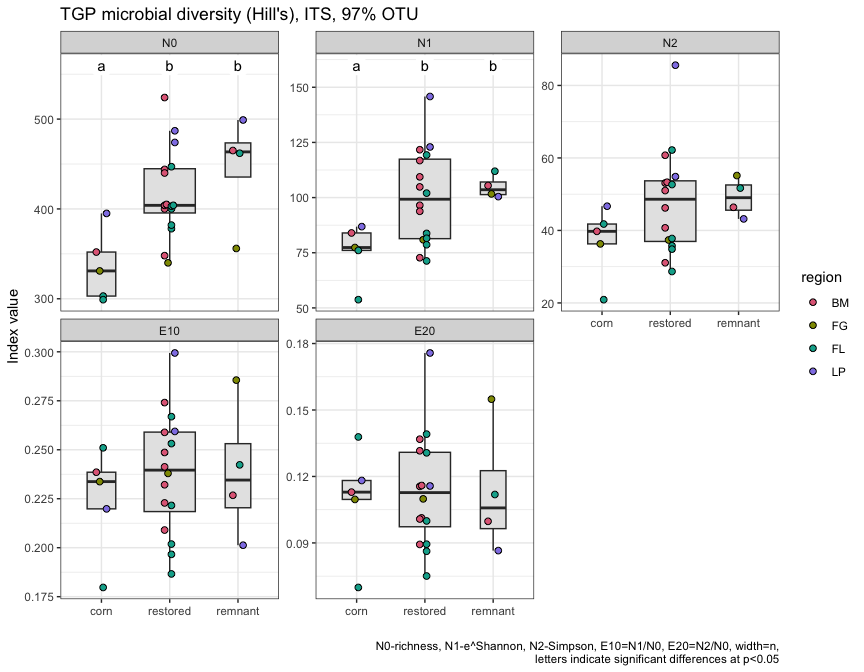
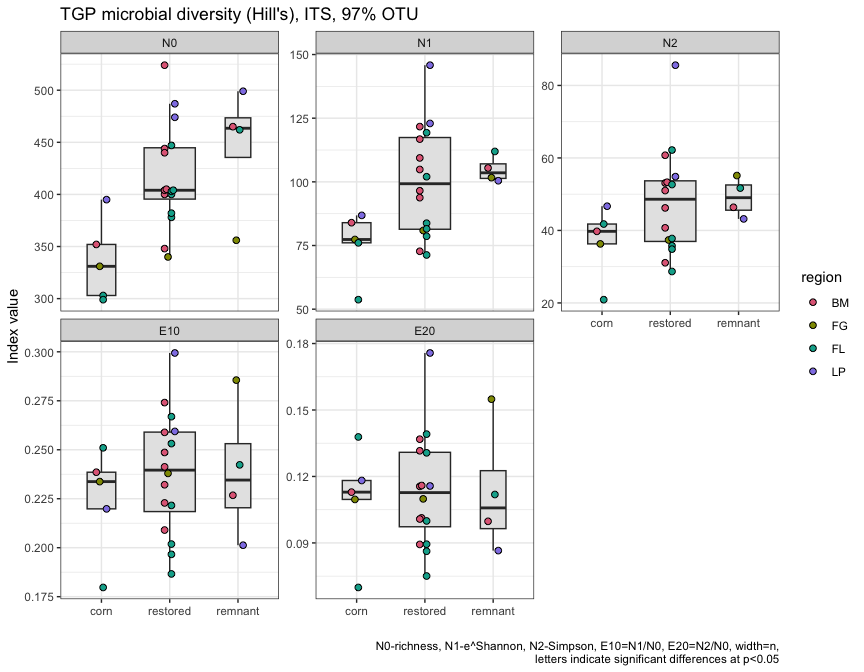
WIP: finished microbial diversity

diff --git a/microbial_diversity.md b/microbial_diversity.md
@@ -2,7 +2,7 @@ Microbial data: overview of data, diversity statistics
 ================
 Beau Larkin
 
-Last updated: 24 February, 2023
+Last updated: 27 February, 2023
 
 - <a href="#description" id="toc-description">Description</a>
 - <a href="#packages-and-libraries"
@@ -12,42 +12,29 @@ Last updated: 24 February, 2023
     id="toc-sites-species-tables">Sites-species tables</a>
   - <a href="#site-metadata-and-design"
     id="toc-site-metadata-and-design">Site metadata and design</a>
+- <a href="#functions" id="toc-functions">Functions</a>
+  - <a href="#calculate-hills-series-on-a-samples-species-matrix"
+    id="toc-calculate-hills-series-on-a-samples-species-matrix">Calculate
+    Hill’s series on a samples-species matrix</a>
+  - <a href="#test-diversity-measures-across-site-types-with-mixed-model"
+    id="toc-test-diversity-measures-across-site-types-with-mixed-model">Test
+    diversity measures across site types with mixed model</a>
+  - <a href="#change-in-diversity-over-time"
+    id="toc-change-in-diversity-over-time">Change in diversity over time</a>
 - <a href="#analysis-and-results" id="toc-analysis-and-results">Analysis
   and Results</a>
-  - <a href="#functions-and-variables"
-    id="toc-functions-and-variables">Functions and variables</a>
-    - <a href="#calculate-hills-series-on-a-samples-species-matrix"
-      id="toc-calculate-hills-series-on-a-samples-species-matrix">Calculate
-      Hill’s series on a samples-species matrix</a>
-    - <a href="#test-diversity-measures-across-site-types-with-mixed-model"
-      id="toc-test-diversity-measures-across-site-types-with-mixed-model">Test
-      diversity measures across site types with mixed model</a>
-    - <a href="#change-in-diversity-over-time"
-      id="toc-change-in-diversity-over-time">Change in diversity over time</a>
-    - <a href="#calculate-diversity-of-all-samples-species-matrices"
-      id="toc-calculate-diversity-of-all-samples-species-matrices">Calculate
-      diversity of all samples-species matrices</a>
-  - <a href="#fungi-its-gene-in-otu-clusters"
-    id="toc-fungi-its-gene-in-otu-clusters">Fungi (ITS gene) in OTU
-    clusters</a>
+  - <a href="#diversity-calculations"
+    id="toc-diversity-calculations">Diversity calculations</a>
+  - <a href="#fungi-its-gene" id="toc-fungi-its-gene">Fungi (ITS gene)</a>
     - <a href="#diversity-across-field-types"
       id="toc-diversity-across-field-types">Diversity across field types</a>
     - <a href="#key-observations" id="toc-key-observations">Key
       observations:</a>
-    - <a href="#diversity-over-time-its-based-otus"
-      id="toc-diversity-over-time-its-based-otus">Diversity over time
-      (ITS-based OTUs)</a>
-    - <a href="#diversity-over-time-at-blue-mounds-its-based-otus"
-      id="toc-diversity-over-time-at-blue-mounds-its-based-otus">Diversity
-      over time at Blue Mounds (ITS-based OTUs)</a>
-  - <a href="#amf-18s-gene-97-similar-otus"
-    id="toc-amf-18s-gene-97-similar-otus">AMF (18S gene, 97% similar
-    OTUs)</a>
+    - <a href="#diversity-over-time" id="toc-diversity-over-time">Diversity
+      over time</a>
+  - <a href="#amf-18s-gene" id="toc-amf-18s-gene">AMF (18S gene)</a>
     - <a href="#key-observations-1" id="toc-key-observations-1">Key
       observations:</a>
-    - <a href="#diversity-over-time-18s-based-otus"
-      id="toc-diversity-over-time-18s-based-otus">Diversity over time
-      (18S-based OTUs)</a>
     - <a href="#diversity-over-time-at-blue-mounds-amf"
       id="toc-diversity-over-time-at-blue-mounds-amf">Diversity over time at
       Blue Mounds (AMF)</a>
@@ -116,41 +103,13 @@ spe <- list(
 
 ## Site metadata and design
 
-Set remnants to 50 years old as a placeholder. This number will not be
-used in a quantitative sense, for example in models. Oldfields are
-filtered out because they could not be replicated in regions.
-
 ``` r
-rem_age <- 50
-sites   <- read_csv(paste0(getwd(), "/clean_data/sites.csv"), show_col_types = FALSE) %>% 
-    mutate(field_type = factor(field_type, ordered = TRUE, levels = c("corn", "restored", "remnant")),
-           yr_since = replace(yr_since, which(field_type == "remnant"), rem_age)) %>% 
+sites <- read_csv(paste0(getwd(), "/clean_data/sites.csv"), show_col_types = FALSE) %>% 
+    mutate(field_type = factor(field_type, ordered = TRUE, levels = c("corn", "restored", "remnant"))) %>% 
     select(-lat, -long, -yr_restore, -yr_rank)
 ```
 
-# Analysis and Results
-
-Microbial diversity is considered for each of four datasets: OTU or SV
-clustering for 18S or ITS gene sequencing. For each set, Hill’s numbers
-are produced ([Hill 1973](http://doi.wiley.com/10.2307/1934352),
-[Borcard and Legendere 2018,
-p. 373](http://link.springer.com/10.1007/978-3-319-71404-2)) and
-plotted, with means differences tested using mixed-effects linear models
-in `lmer` ([Bates et al. 2015](https://doi.org/10.18637/jss.v067.i01)).
-Correlations are then produced to visualize change in diversity trends
-over time, with similar mixed-effects tests performed.
-
-Hill’s numbers, brief description:
-
-- $N_{0}$ = species richness
-- $N_{1}$ = Shannon’s diversity ($e^H$; excludes rarest species,
-  considers the number of “functional” species)
-- $N_{2}$ = Simpson’s diversity ($1 / \lambda$; number of “codominant”
-  species)
-- $E_{10}$ = Shannon’s evenness (Hill’s ratio $N_{1} / N_{0}$)
-- $E_{20}$ = Simpson’s evenness (Hill’s ratio $N_{2} / N_{0}$)
-
-## Functions and variables
+# Functions
 
 The following functions are used to streamline code and reduce errors:
 
@@ -245,13 +204,39 @@ test_age <- function(data, caption=NULL) {
 }
 ```
 
-### Calculate diversity of all samples-species matrices
+# Analysis and Results
+
+Microbial diversity is considered for each of four datasets: OTU or SV
+clustering for 18S or ITS gene sequencing. For each set, Hill’s numbers
+are produced ([Hill 1973](http://doi.wiley.com/10.2307/1934352),
+[Borcard and Legendere 2018,
+p. 373](http://link.springer.com/10.1007/978-3-319-71404-2)) and
+plotted, with means differences tested using mixed-effects linear models
+in `lmer` ([Bates et al. 2015](https://doi.org/10.18637/jss.v067.i01)).
+Correlations are then produced to visualize change in diversity trends
+over time, with similar mixed-effects tests performed.
+
+The statistical tests are not valid due to pseudoreplication, but are
+presented here as an attempt to at least explore some differences and
+think more later about how we could present them in a valid way.
+
+Hill’s numbers, brief description:
+
+- $N_{0}$ = species richness
+- $N_{1}$ = Shannon’s diversity ($e^H$; excludes rarest species,
+  considers the number of “functional” species)
+- $N_{2}$ = Simpson’s diversity ($1 / \lambda$; number of “codominant”
+  species)
+- $E_{10}$ = Shannon’s evenness (Hill’s ratio $N_{1} / N_{0}$)
+- $E_{20}$ = Simpson’s evenness (Hill’s ratio $N_{2} / N_{0}$)
+
+### Diversity calculations
 
 ``` r
-div <- lapply(spe, calc_diversity)
+div <- Map(calc_diversity, spe)
 ```
 
-## Fungi (ITS gene) in OTU clusters
+## Fungi (ITS gene)
 
 ### Diversity across field types
 
@@ -576,6 +561,8 @@ test_diversity(div$its_rfy)
     ##     corn restored  remnant 
     ##      "a"      "a"      "a"
 
+#### Result: ITS diversity
+
 - $N_{0}$: field type is significant by likelihood ratio test at
   p\<0.001 with region as a random effect. Species richness in corn
   fields was less than restored or remnants, which didn’t differ at
@@ -606,7 +593,7 @@ ggplot(div$its_rfy, aes(x = field_type, y = value)) +
     facet_wrap(vars(hill_index), scales = "free_y") +
     geom_boxplot(varwidth = TRUE, fill = "gray90", outlier.shape = NA) +
     geom_beeswarm(aes(fill = region), shape = 21, size = 2, dodge.width = 0.2) +
-    geom_label(data = labs_its, aes(x = xpos, y = ypos, label = lab), label.size = NA) +
+    # geom_label(data = labs_its, aes(x = xpos, y = ypos, label = lab), label.size = NA) +
     labs(x = "", y = "Index value", title = "TGP microbial diversity (Hill's), ITS, 97% OTU",
          caption = "N0-richness, N1-e^Shannon, N2-Simpson, E10=N1/N0, E20=N2/N0, width=n,\nletters indicate significant differences at p<0.05") +
     scale_fill_discrete_qualitative(palette = "Dark3") +
@@ -643,33 +630,12 @@ ggplot(
   evenness.
 - Interactions are less an issue with $N_{0}$ and $N_{1}$
 
-### Diversity over time (ITS-based OTUs)
+### Diversity over time
 
-Next, trends in diversity are correlated with years since restoration,
-with 0 used for corn fields and 50 used for remnants. Statistical
-testing of this relationship is not valid because the ages for corn and
-remnant aren’t justified, and the fields aren’t justifiable as a
-chronosequence.
-
-``` r
-ggplot(div$its_rfy, aes(x = yr_since, y = value)) +
-facet_wrap(vars(hill_index), scales = "free_y") +
-    geom_point(aes(fill = region, shape = field_type), size = 2) +
-    labs(x = "Years since restoration", y = "index value", title = "Change in TGP microbial diversity (Hill's), ITS, 97% OTU",
-         caption = "N0-richness, N1-e^Shannon, N2-Simpson, E10=N1/N0, E20=N2/N0") +
-    scale_shape_manual(name = "field type", values = c(21:23)) +
-    scale_fill_discrete_qualitative(name = "region", palette = "Dark3") +
-    guides(fill = guide_legend(override.aes = list(shape = 21)),
-           shape = guide_legend(override.aes = list(fill = NA))) +
-    theme_bw()
-```
-
-<img src="microbial_diversity_files/figure-gfm/plot_yrs_since_resto-1.png" style="display: block; margin: auto;" />
-
-It’s also worth looking at diversity trends in restored fields only.
-$N_{1}$ declines with field age in the Blue Mounds area (relationship
-examined later in this report), so how far does this observation
-generalize?
+Next, trends in diversity are correlated with years since restoration.
+This can only be attempted with Fermi and Blue Mounds sites; elsewhere,
+blocks cannot be statistically accounted for because treatments aren’t
+replicated within them.
 
 ``` r
 div$its_rfy %>% 
@@ -684,16 +650,12 @@ div$its_rfy %>%
     theme_bw()
 ```
 
-<img src="microbial_diversity_files/figure-gfm/plot_yrs_since_resto_allSites-1.png" style="display: block; margin: auto;" />
+<img src="microbial_diversity_files/figure-gfm/plot_yrs_since_resto_FLBM-1.png" style="display: block; margin: auto;" />
 
-The relationship certainly only exists in Blue Mounds, but it isn’t
-strong there.
+If the relationship exists, it is in Blue Mounds only.
 
-### Diversity over time at Blue Mounds (ITS-based OTUs)
-
-Possibly, it’s justified to correlate restoration age with diversity at
-Blue Mounds only, and with restored fields only. A Pearson’s correlation
-is used:
+It’s probably justified to correlate diversity with field age in Blue
+Mounds’s restored fields. A Pearson’s correlation is used:
 
 ``` r
 test_age(div$its_rfy, 
@@ -722,8 +684,12 @@ cannot attempt to present this as a time-based result at all. Or, maybe
 the number of functionally dominant species slowly declines over time
 due to lack of disturbance and substrate diversity.
 
+That diversity metrics aren’t changing over time, or are possibly
+declining over time after restoration is concerning and worth
+mentioning.
+
 In any case, let’s take a look at Shannon’s diversity over time in Blue
-Mounds’s restored fields.
+Mounds’ restored fields.
 
 ``` r
 div$its_rfy %>% 
@@ -738,17 +704,18 @@ div$its_rfy %>%
 <img src="microbial_diversity_files/figure-gfm/bm_test_age-1.png" style="display: block; margin: auto;" />
 
 Karla Ott’s field was almost exclusively dominated by big bluestem,
-possibly leading to a simpler microbial community. Right now, my
-interpretation is that restoration strategies changed over time and
-although restored plant communities persisted, microbial communities
-simplified over time. Immediately after restoration, microbial diversity
-increased rapidly and was not sustained because the soil properties
-ultimately didn’t change very much.
+possibly leading to a simpler microbial community. That field has too
+much leverage on this plot.  
+Right now, my interpretation is that restoration strategies changed over
+time and although restored plant communities persisted, microbial
+communities simplified over time. Immediately after restoration,
+microbial diversity increased rapidly and was not sustained because the
+soil properties ultimately didn’t change very much.
 
 Site factors (soil type) are hard to tease out, but in later analyses we
 will try using measured soil chemical properties.
 
-## AMF (18S gene, 97% similar OTUs)
+## AMF (18S gene)
 
 Run the linear model and test differences among field types for
 diversity.
@@ -899,9 +866,9 @@ test_diversity(div$amf_rfy)
     ##      AIC      BIC   logLik deviance df.resid 
     ## 126.5654 132.6598 -58.2827 116.5654       20 
     ## Random effects:
-    ##  Groups   Name        Std.Dev.
-    ##  region   (Intercept) 0.00    
-    ##  Residual             2.49    
+    ##  Groups   Name        Std.Dev. 
+    ##  region   (Intercept) 6.568e-10
+    ##  Residual             2.490e+00
     ## Number of obs: 25, groups:  region, 4
     ## Fixed Effects:
     ##        (Intercept)  field_typerestored   field_typeremnant  
@@ -968,7 +935,7 @@ test_diversity(div$amf_rfy)
     ## -61.3699 -55.2756  35.6850 -71.3699       20 
     ## Random effects:
     ##  Groups   Name        Std.Dev. 
-    ##  region   (Intercept) 7.314e-12
+    ##  region   (Intercept) 7.234e-12
     ##  Residual             5.806e-02
     ## Number of obs: 25, groups:  region, 4
     ## Fixed Effects:
@@ -1089,6 +1056,8 @@ test_diversity(div$amf_rfy)
     ##     corn restored  remnant 
     ##      "a"     "ab"      "b"
 
+#### Result: AMF diversity
+
 Despite apparent trends across field types, variances are large and
 interactions apparent. All model fits are questionable due to
 [singularity](https://rdrr.io/cran/lme4/man/isSingular.html). The
@@ -1178,34 +1147,10 @@ ggplot(
   BM and FG reversing it.
 - Particular species may be strong interactors here.
 
-### Diversity over time (18S-based OTUs)
-
-Next, trends in diversity are correlated with years since restoration,
-with 0 used for corn fields and 50 used for remnants. Statistical
-testing of this relationship is not valid because the ages for corn and
-remnant aren’t justified, and the fields aren’t justifiable as a
-chronosequence.
-
-``` r
-ggplot(div$amf_rfy, aes(x = yr_since, y = value)) +
-    facet_wrap(vars(hill_index), scales = "free_y") +
-    geom_point(aes(fill = region, shape = field_type), size = 2) +
-    labs(x = "Years since restoration", y = "index value", title = "Change in TGP microbial diversity (Hill's), AMF (18S), 97% OTU",
-         caption = "N0-richness, N1-e^Shannon, N2-Simpson, E10=N1/N0, E20=N2/N0") +
-    scale_shape_manual(name = "field type", values = c(21:23)) +
-    scale_fill_discrete_qualitative(name = "region", palette = "Dark3") +
-    guides(fill = guide_legend(override.aes = list(shape = 21)),
-           shape = guide_legend(override.aes = list(fill = NA))) +
-    theme_bw()
-```
-
-<img src="microbial_diversity_files/figure-gfm/plot_yrs_since_resto_amf_otu-1.png" style="display: block; margin: auto;" />
-
 ### Diversity over time at Blue Mounds (AMF)
 
-Possibly, it’s justified to correlate restoration age with diversity at
-Blue Mounds only, and with restored fields only. A Pearson’s correlation
-is used:
+It’s probably justified to correlate diversity with field age in Blue
+Mounds’s restored fields. A Pearson’s correlation is used:
 
 ``` r
 test_age(div$amf_rfy, caption = "Correlation between Hill's numbers and field age in the Blue Mounds region: AMF (18S), 97% OTU")
